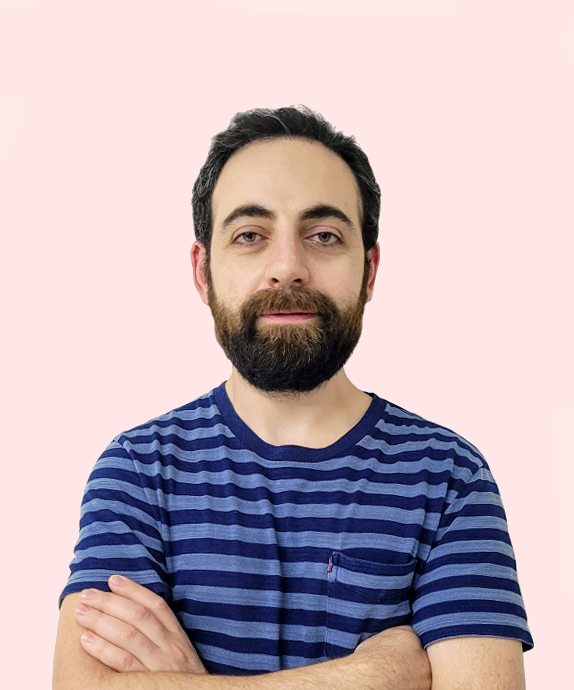
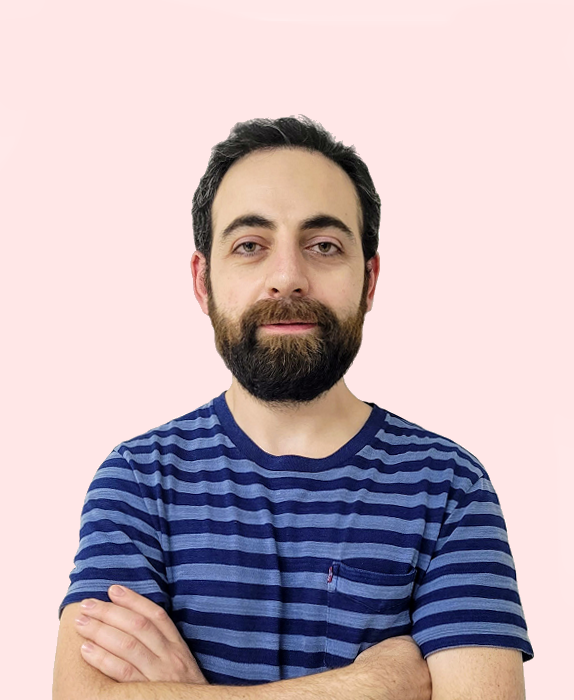
chore: refine header spacing and profile image size

Changed region(s): [[0.0889, 0.1522, 0.9477, 0.9435], [0.3554, 0.913, 0.4146, 0.9435]]

diff --git a/app/static/css/style.css b/app/static/css/style.css
@@ -44,6 +44,8 @@ a {
     font-weight: 700;
     font-size: 2.5rem;
     line-height: 1.1;
+    margin-top: -6px;
+    margin-bottom: 12px;
 }
 
 .header-title {
